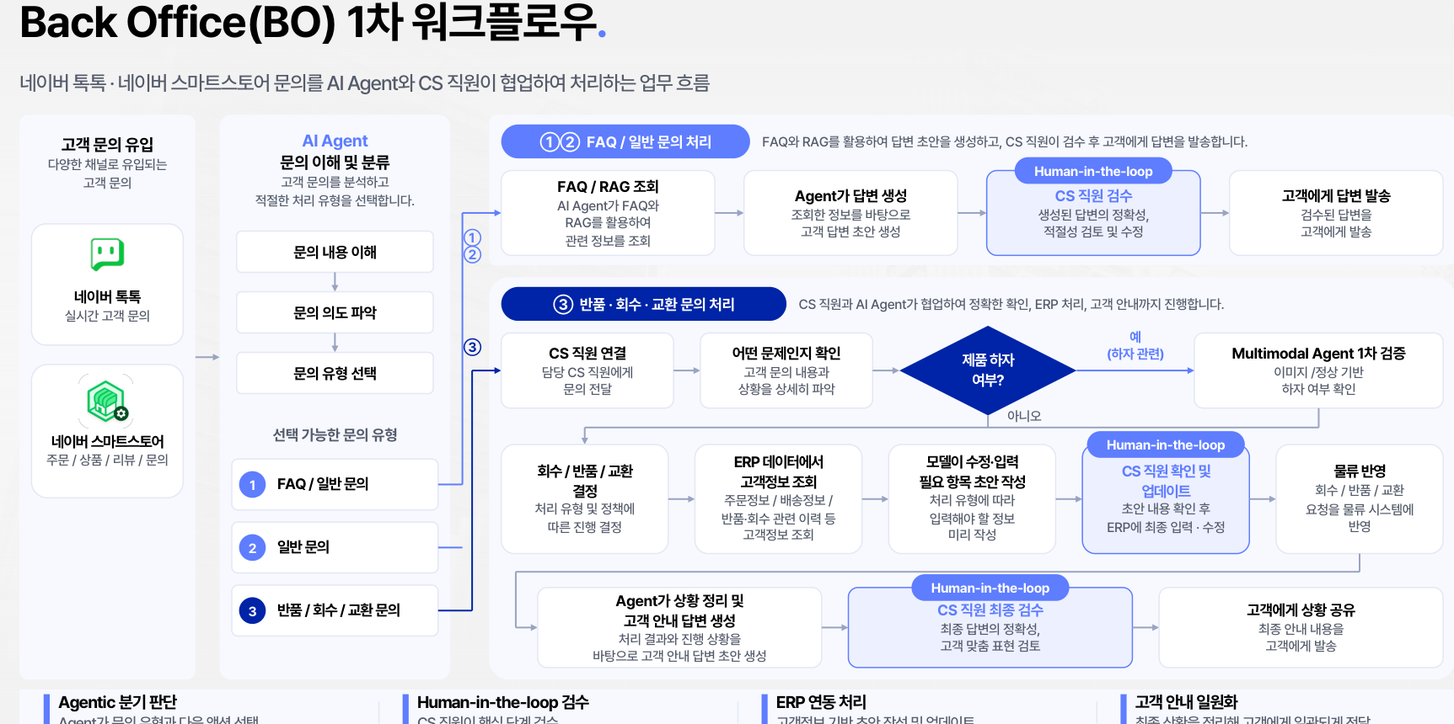
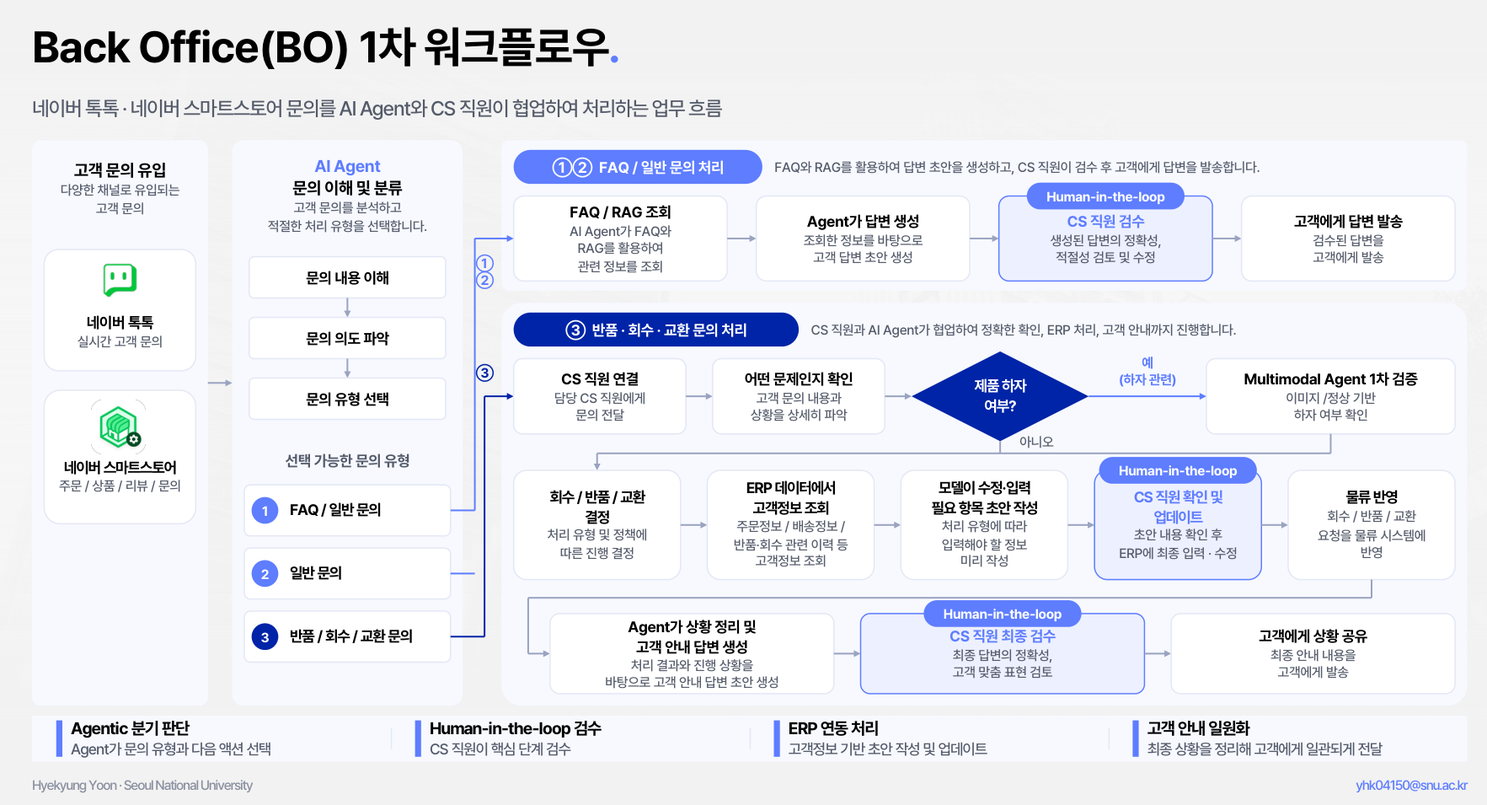
Add files via upload

diff --git a/index.html b/index.html
@@ -1,6 +1,11 @@
 <!DOCTYPE html>
 
-<html lang="en"><head><meta charset="utf-8"/><meta content="width=device-width, initial-scale=1" name="viewport"/><meta content="Hyekyung Yoon — AI research and engineering portfolio" name="description"/><title>Portfolio | Hyekyung Yoon</title><link href="style.css" rel="stylesheet"/></head><body><header><nav><a class="brand" href="index.html">HY / Research &amp; Engineering</a><div><a href="index.html#projects">Projects</a><a href="index.html#publications">Publications</a><a href="index.html#about">About</a><a href="mailto:yhk04150@snu.ac.kr">Contact</a></div></nav></header><main class=""><section class="hero"><div><span class="eyebrow">AI researcher &amp; engineer</span><h1>Hyekyung Yoon</h1><p class="lead">Bridging AI research and real-world applications.</p><p>Ph.D. student in Artificial Intelligence at Seoul National University. I develop practical AI systems for semiconductor equipment, multimodal learning and human-in-the-loop Agentic AI.</p><div class="links"><a class="button primary" href="#projects">Explore my work</a><a class="button" href="https://github.com/yhk04150">GitHub ↗</a><a class="button" href="https://orcid.org/0009-0000-1410-786X">ORCID ↗</a></div></div><aside class="hero-panel"><img alt="Hyekyung Yoon" class="profile-photo" height="900" src="assets/profile.jpg" width="700"/><span class="eyebrow">Research focus</span><h2>From domain challenges to measurable impact.</h2><p>Semiconductor metrology<br/>Industrial anomaly detection<br/>Multimodal RAG &amp; AI safety<br/>Human-centered AI systems</p></aside></section><div class="metrics"><div class="metric"><strong>0.99</strong><small>SEM metrology R²</small></div><div class="metric"><strong>0.9493</strong><small>Wafer fault detection F1</small></div><div class="metric"><strong>13% → 72%</strong><small>AI response adoption</small></div><div class="metric"><strong>9</strong><small>Research papers, including accepted work</small></div></div><section class="section" id="projects"><span class="eyebrow">Selected industry projects</span><h2>Research in practice</h2><div class="filters"><button aria-pressed="true" data-filter="All" type="button">All</button><button aria-pressed="false" data-filter="Computer Vision" type="button">Computer Vision</button><button aria-pressed="false" data-filter="Generative AI" type="button">Generative AI</button><button aria-pressed="false" data-filter="Industrial AI" type="button">Industrial AI</button><button aria-pressed="false" data-filter="Agentic AI" type="button">Agentic AI</button></div><div class="cards"><article class="card" data-category="Computer Vision"><span class="eyebrow">SK hynix / Computer Vision</span><h3>Metrology-Preserving SEM Image Restoration</h3><img alt="Metrology-Preserving SEM Image Restoration architecture" class="project-preview" decoding="async" loading="lazy" src="assets/projects/sem-restoration-architecture.png"/><p>Low-frame SEM images need restoration without compromising the fine structures used for metrology.</p><div class="result">R² = 0.99</div><small>0.007 s/image</small><a href="projects/sem-restoration.html">Explore project →</a></article><article class="card" data-category="Computer Vision"><span class="eyebrow">SK hynix / Computer Vision</span><h3>Few-Shot SEM Domain Adaptation</h3><img alt="Few-Shot SEM Domain Adaptation architecture" class="project-preview" decoding="async" loading="lazy" src="assets/projects/sem-adaptation-architecture.png"/><p>New SEM image distributions require adaptation with limited paired target-domain data.</p><div class="result">5 target images</div><small>R² = 0.88</small><a href="projects/sem-adaptation.html">Explore project →</a></article><article class="card" data-category="Generative AI"><span class="eyebrow">SK hynix / Generative AI</span><h3>Virtual Multi-Voltage SEM Imaging</h3><img alt="Virtual Multi-Voltage SEM Imaging architecture" class="project-preview" decoding="async" loading="lazy" src="assets/projects/sem-voltage-architecture.png"/><p>Selecting voltage conditions for CD measurement can require additional SEM image acquisition.</p><div class="result">Conditional diffusion</div><small>End-to-end PoC</small><a href="projects/sem-voltage.html">Explore project →</a></article><article class="card" data-category="Industrial AI"><span class="eyebrow">SEMICS / KIAT / Industrial AI</span><h3>SwinProbeFormer</h3><img alt="SwinProbeFormer architecture" class="project-preview" decoding="async" loading="lazy" src="assets/publications/swinprobeformer.png"/><p>Overgain faults in wafer probing are associated with probing failures. Long sensor sequences require an effective anomaly detection method.</p><div class="result">F1 = 0.9493</div><small>34.8% improvement</small><a href="projects/swinprobeformer.html">Explore project →</a></article><article class="card" data-category="Industrial AI"><span class="eyebrow">SEMICS / KIAT / Industrial AI</span><h3>M-WAD</h3><img alt="M-WAD architecture" class="project-preview" decoding="async" loading="lazy" src="assets/publications/m-wad.png"/><p>Undergain faults reduce test throughput and motivate multimodal fault detection.</p><div class="result">7 probing recipes</div><small>~44% F1 improvement</small><a href="projects/m-wad.html">Explore project →</a></article><article class="card" data-category="Agentic AI"><span class="eyebrow">KELIVI / Agentic AI</span><h3>Human-in-the-Loop Customer Service AI</h3><img alt="KELIVI back-office workflow for AI-assisted customer service" class="project-preview" loading="lazy" src="assets/kelivi/kelivi-workflow.png"/><p>Customer inquiries require efficient responses while preserving human judgment for returns, exchanges and after-sales service.</p><div class="result">13% → 72%</div><small>15 → 2–3 min</small><a href="projects/agentic-ai.html">Explore project →</a></article></div></section><section class="section" id="publications"><span class="eyebrow">Academic research</span><h2>Publications</h2><p class="publication-intro">Research papers with representative figures and links to the original publications.</p><article class="pub pub-with-figure"><figure class="pub-figure"><a aria-label="Open SPOT representative image" href="assets/publications/spot.png" rel="noopener" target="_blank"><img alt="SPOT representative research image" decoding="async" loading="lazy" src="assets/publications/spot.png"/></a></figure><div class="pub-content"><span class="muted">WSDM 2027 · Accepted</span><strong>SPOT</strong>Explicit Candidate Selection with Image Verification for Training-Free Text-to-Image Safety<small class="figure-source">Target-constrained prompt selection with image verification.</small></div></article><article class="pub pub-with-figure"><figure class="pub-figure"><a aria-label="Open NoDE representative image" href="assets/publications/node.png" rel="noopener" target="_blank"><img alt="NoDE representative research image" decoding="async" loading="lazy" src="assets/publications/node.png"/></a></figure><div class="pub-content"><span class="muted">DMKD 2026</span><strong>NoDE</strong>Noise-Decorrelation Embedding for Robust Long-Term Multivariate Time Series Forecasting <a href="https://link.springer.com/article/10.1007/s10618-026-01281-0">Paper ↗</a><small class="figure-source">Noise-decorrelation embedding overview.</small></div></article><article class="pub pub-with-figure"><figure class="pub-figure"><a aria-label="Open PARES representative image" href="assets/publications/pares.png" rel="noopener" target="_blank"><img alt="PARES representative research image" decoding="async" loading="lazy" src="assets/publications/pares.png"/></a></figure><div class="pub-content"><span class="muted">IEEE Access 2026</span><strong>PARES</strong>Page Answerability, Reranking, and Evidence-Supervised Selection for Multi-Page Multimodal Document Question Answering <a href="https://ieeexplore.ieee.org/document/11703558">Paper ↗</a><small class="figure-source">Page answerability, reranking and evidence-supervised selection architecture.</small></div></article><article class="pub pub-with-figure"><figure class="pub-figure"><a aria-label="Open M-WAD representative image" href="assets/publications/m-wad.png" rel="noopener" target="_blank"><img alt="M-WAD representative research image" decoding="async" loading="lazy" src="assets/publications/m-wad.png"/></a></figure><div class="pub-content"><span class="muted">IEEE Access 2026</span><strong>M-WAD</strong>Self-Supervised Multimodal Anomaly Detection for Wafer Probing <a href="https://ieeexplore.ieee.org/document/11370876/">Paper ↗</a><small class="figure-source">Multimodal fusion of time series, residual images and anomaly-specific text prompts.</small></div></article><article class="pub pub-with-figure"><figure class="pub-figure"><a aria-label="Open SwinProbeFormer representative image" href="assets/publications/swinprobeformer.png" rel="noopener" target="_blank"><img alt="SwinProbeFormer representative research image" decoding="async" loading="lazy" src="assets/publications/swinprobeformer.png"/></a></figure><div class="pub-content"><span class="muted">IEEE Access 2025</span><strong>SwinProbeFormer</strong>Enhancing Wafer Probing with SwinProbeFormer: Self-Supervised Anomaly Detection via Window-Based Swin Transformer <a href="https://ieeexplore.ieee.org/document/11173610">Paper ↗</a><small class="figure-source">Window-based attention and cyclic shift compared with vanilla self-attention.</small></div></article><article class="pub pub-with-figure"><figure class="pub-figure"><a aria-label="Open CASA representative image" href="assets/publications/casa.png" rel="noopener" target="_blank"><img alt="CASA representative research image" decoding="async" loading="lazy" src="assets/publications/casa.png"/></a></figure><div class="pub-content"><span class="muted">IJCAI 2025</span><strong>CASA</strong>CNN Autoencoder-Based Score Attention for Efficient Multivariate Long-Term Time-Series Forecasting <a href="https://doi.org/10.24963/ijcai.2025/619">Paper ↗</a><small class="figure-source">CNN autoencoder-based score attention and CASA architecture.</small></div></article><article class="pub pub-with-figure"><figure class="pub-figure"><a aria-label="Open ML-GCN representative image" href="assets/publications/ml-gcn.png" rel="noopener" target="_blank"><img alt="ML-GCN representative research image" decoding="async" loading="lazy" src="assets/publications/ml-gcn.png"/></a></figure><div class="pub-content"><span class="muted">ICCV Workshops 2023</span><strong>ML-GCN</strong>Enhancing Multi-Label Long-Tailed Classification on Chest X-Rays through ML-GCN Augmentation <a href="https://ieeexplore.ieee.org/document/10350833">Paper ↗</a><small class="figure-source">Representative figure not available.</small></div></article><article class="pub pub-with-figure"><figure class="pub-figure"><a aria-label="Open SLU representative image" href="assets/publications/slu.png" rel="noopener" target="_blank"><img alt="SLU representative research image" decoding="async" loading="lazy" src="assets/publications/slu.png"/></a></figure><div class="pub-content"><span class="muted">Sensors 2022</span><strong>SLU</strong>Improved Spoken Language Representation for Intent Understanding in a Task-Oriented Dialogue System <a href="https://www.mdpi.com/1424-8220/22/4/1509">Paper ↗</a><small class="figure-source">Representative figure not available.</small></div></article><article class="pub pub-with-figure"><figure class="pub-figure"><a aria-label="Open Voice Translation representative image" href="assets/publications/voice-translation.png" rel="noopener" target="_blank"><img alt="Voice Translation representative research image" decoding="async" loading="lazy" src="assets/publications/voice-translation.png"/></a></figure><div class="pub-content"><span class="muted">IEEE Access 2021</span><strong>Voice Translation</strong>Linguistic-Coupled Age-to-Age Voice Translation to Improve Speech Recognition Performance in Real Environments <a href="https://ieeexplore.ieee.org/document/9548063">Paper ↗</a><small class="figure-source">Representative figure not available.</small></div></article></section><section class="section credentials" id="about">
+<html lang="en"><head><meta charset="utf-8"/><meta content="width=device-width, initial-scale=1" name="viewport"/><meta content="Hyekyung Yoon — AI research and engineering portfolio" name="description"/><title>Portfolio | Hyekyung Yoon</title><link href="style.css" rel="stylesheet"/></head><body><header><nav><a class="brand" href="index.html">HY / Research &amp; Engineering</a><div><a href="index.html#projects">Projects</a><a href="index.html#publications">Publications</a><a href="index.html#about">About</a><a href="mailto:yhk04150@snu.ac.kr">Contact</a></div></nav></header><main class=""><section class="hero"><div><span class="eyebrow">AI researcher &amp; engineer</span><h1>Hyekyung Yoon</h1><p class="lead">Bridging AI research and real-world applications.</p><p>Ph.D. student in Artificial Intelligence at Seoul National University. I develop practical AI systems for semiconductor equipment, multimodal learning and human-in-the-loop Agentic AI.</p><div class="links"><a class="button primary" href="#projects">Explore my work</a><a class="button" href="https://github.com/yhk04150">GitHub ↗</a><a class="button" href="https://orcid.org/0009-0000-1410-786X">ORCID ↗</a></div></div><aside class="hero-panel"><img alt="Hyekyung Yoon" class="profile-photo" height="900" src="assets/profile.jpg" width="700"/><span class="eyebrow">Research focus</span><h2>From domain challenges to measurable impact.</h2><p>Semiconductor metrology<br/>Industrial anomaly detection<br/>Multimodal RAG &amp; AI safety<br/>Human-centered AI systems</p></aside></section><section aria-labelledby="research-focus-title" class="research-focus"><h2 id="research-focus-title">Research Areas &amp; Publications</h2><div class="research-grid">
+<a class="research-card" href="projects/agentic-ai.html"><h3>Agentic AI System</h3><p>RAG · Human-in-the-loop · Production AI</p><span class="research-link">Explore project →</span></a>
+<a class="research-card" href="#spot"><h3>Safety Alignment for Generative AI</h3><p>Text-to-image safety · Image verification</p><span class="research-link">Explore research →</span></a>
+<a class="research-card" href="#projects" id="semiconductor-link"><h3>Industrial AI – Semiconductor</h3><p>SEM metrology · Wafer fault detection</p><span class="research-link">Explore projects →</span></a>
+<a class="research-card" href="#publications"><h3>Publications</h3><p>9 research papers, including accepted work</p><span class="research-link">View publications →</span></a>
+</div></section><section class="section" id="projects"><span class="eyebrow">Selected industry projects</span><h2>Research in practice</h2><div class="filters"><button aria-pressed="true" data-filter="All" type="button">All</button><button aria-pressed="false" data-filter="Computer Vision" type="button">Computer Vision</button><button aria-pressed="false" data-filter="Generative AI" type="button">Generative AI</button><button aria-pressed="false" data-filter="Industrial AI" type="button">Industrial AI</button><button aria-pressed="false" data-filter="Agentic AI" type="button">Agentic AI</button></div><div class="cards"><article class="card" data-category="Computer Vision"><span class="eyebrow">SK hynix / Computer Vision</span><h3>Metrology-Preserving SEM Image Restoration</h3><img alt="Metrology-Preserving SEM Image Restoration architecture" class="project-preview" decoding="async" loading="lazy" src="assets/projects/sem-restoration-architecture.png"/><p>Low-frame SEM images need restoration without compromising the fine structures used for metrology.</p><div class="result">R² = 0.99</div><small>0.007 s/image</small><a href="projects/sem-restoration.html">Explore project →</a></article><article class="card" data-category="Computer Vision"><span class="eyebrow">SK hynix / Computer Vision</span><h3>Few-Shot SEM Domain Adaptation</h3><img alt="Few-Shot SEM Domain Adaptation architecture" class="project-preview" decoding="async" loading="lazy" src="assets/projects/sem-adaptation-architecture.png"/><p>New SEM image distributions require adaptation with limited paired target-domain data.</p><div class="result">5 target images</div><small>R² = 0.88</small><a href="projects/sem-adaptation.html">Explore project →</a></article><article class="card" data-category="Generative AI"><span class="eyebrow">SK hynix / Generative AI</span><h3>Virtual Multi-Voltage SEM Imaging</h3><img alt="Virtual Multi-Voltage SEM Imaging architecture" class="project-preview" decoding="async" loading="lazy" src="assets/projects/sem-voltage-architecture.png"/><p>Selecting voltage conditions for CD measurement can require additional SEM image acquisition.</p><div class="result">Conditional diffusion</div><small>End-to-end PoC</small><a href="projects/sem-voltage.html">Explore project →</a></article><article class="card" data-category="Industrial AI"><span class="eyebrow">SEMICS / KIAT / Industrial AI</span><h3>SwinProbeFormer</h3><img alt="SwinProbeFormer architecture" class="project-preview" decoding="async" loading="lazy" src="assets/publications/swinprobeformer.png"/><p>Overgain faults in wafer probing are associated with probing failures. Long sensor sequences require an effective anomaly detection method.</p><div class="result">F1 = 0.9493</div><small>34.8% improvement</small><a href="projects/swinprobeformer.html">Explore project →</a></article><article class="card" data-category="Industrial AI"><span class="eyebrow">SEMICS / KIAT / Industrial AI</span><h3>M-WAD</h3><img alt="M-WAD architecture" class="project-preview" decoding="async" loading="lazy" src="assets/publications/m-wad.png"/><p>Undergain faults reduce test throughput and motivate multimodal fault detection.</p><div class="result">7 probing recipes</div><small>~44% F1 improvement</small><a href="projects/m-wad.html">Explore project →</a></article><article class="card" data-category="Agentic AI"><span class="eyebrow">KELIVI / Agentic AI</span><h3>Human-in-the-Loop Customer Service AI</h3><img alt="KELIVI back-office workflow for AI-assisted customer service" class="project-preview" loading="lazy" src="assets/kelivi/kelivi-workflow.png"/><p>Customer inquiries require efficient responses while preserving human judgment for returns, exchanges and after-sales service.</p><div class="result">13% → 72%</div><small>15 → 2–3 min</small><a href="projects/agentic-ai.html">Explore project →</a></article></div></section><section class="section" id="publications"><span class="eyebrow">Academic research</span><h2>Publications</h2><p class="publication-intro">Research papers with representative figures and links to the original publications.</p><article class="pub pub-with-figure" id="spot"><figure class="pub-figure"><a aria-label="Open SPOT representative image" href="assets/publications/spot.png" rel="noopener" target="_blank"><img alt="SPOT representative research image" decoding="async" loading="lazy" src="assets/publications/spot.png"/></a></figure><div class="pub-content"><span class="muted">WSDM 2027 · Accepted</span><strong>SPOT</strong>Explicit Candidate Selection with Image Verification for Training-Free Text-to-Image Safety<small class="figure-source">Target-constrained prompt selection with image verification.</small></div></article><article class="pub pub-with-figure"><figure class="pub-figure"><a aria-label="Open NoDE representative image" href="assets/publications/node.png" rel="noopener" target="_blank"><img alt="NoDE representative research image" decoding="async" loading="lazy" src="assets/publications/node.png"/></a></figure><div class="pub-content"><span class="muted">DMKD 2026</span><strong>NoDE</strong>Noise-Decorrelation Embedding for Robust Long-Term Multivariate Time Series Forecasting <a href="https://link.springer.com/article/10.1007/s10618-026-01281-0">Paper ↗</a><small class="figure-source">Noise-decorrelation embedding overview.</small></div></article><article class="pub pub-with-figure"><figure class="pub-figure"><a aria-label="Open PARES representative image" href="assets/publications/pares.png" rel="noopener" target="_blank"><img alt="PARES representative research image" decoding="async" loading="lazy" src="assets/publications/pares.png"/></a></figure><div class="pub-content"><span class="muted">IEEE Access 2026</span><strong>PARES</strong>Page Answerability, Reranking, and Evidence-Supervised Selection for Multi-Page Multimodal Document Question Answering <a href="https://ieeexplore.ieee.org/document/11703558">Paper ↗</a><small class="figure-source">Page answerability, reranking and evidence-supervised selection architecture.</small></div></article><article class="pub pub-with-figure"><figure class="pub-figure"><a aria-label="Open M-WAD representative image" href="assets/publications/m-wad.png" rel="noopener" target="_blank"><img alt="M-WAD representative research image" decoding="async" loading="lazy" src="assets/publications/m-wad.png"/></a></figure><div class="pub-content"><span class="muted">IEEE Access 2026</span><strong>M-WAD</strong>Self-Supervised Multimodal Anomaly Detection for Wafer Probing <a href="https://ieeexplore.ieee.org/document/11370876/">Paper ↗</a><small class="figure-source">Multimodal fusion of time series, residual images and anomaly-specific text prompts.</small></div></article><article class="pub pub-with-figure"><figure class="pub-figure"><a aria-label="Open SwinProbeFormer representative image" href="assets/publications/swinprobeformer.png" rel="noopener" target="_blank"><img alt="SwinProbeFormer representative research image" decoding="async" loading="lazy" src="assets/publications/swinprobeformer.png"/></a></figure><div class="pub-content"><span class="muted">IEEE Access 2025</span><strong>SwinProbeFormer</strong>Enhancing Wafer Probing with SwinProbeFormer: Self-Supervised Anomaly Detection via Window-Based Swin Transformer <a href="https://ieeexplore.ieee.org/document/11173610">Paper ↗</a><small class="figure-source">Window-based attention and cyclic shift compared with vanilla self-attention.</small></div></article><article class="pub pub-with-figure"><figure class="pub-figure"><a aria-label="Open CASA representative image" href="assets/publications/casa.png" rel="noopener" target="_blank"><img alt="CASA representative research image" decoding="async" loading="lazy" src="assets/publications/casa.png"/></a></figure><div class="pub-content"><span class="muted">IJCAI 2025</span><strong>CASA</strong>CNN Autoencoder-Based Score Attention for Efficient Multivariate Long-Term Time-Series Forecasting <a href="https://doi.org/10.24963/ijcai.2025/619">Paper ↗</a><small class="figure-source">CNN autoencoder-based score attention and CASA architecture.</small></div></article><article class="pub pub-with-figure"><figure class="pub-figure"><a aria-label="Open ML-GCN representative image" href="assets/publications/ml-gcn.png" rel="noopener" target="_blank"><img alt="ML-GCN representative research image" decoding="async" loading="lazy" src="assets/publications/ml-gcn.png"/></a></figure><div class="pub-content"><span class="muted">ICCV Workshops 2023</span><strong>ML-GCN</strong>Enhancing Multi-Label Long-Tailed Classification on Chest X-Rays through ML-GCN Augmentation <a href="https://ieeexplore.ieee.org/document/10350833">Paper ↗</a><small class="figure-source">Representative figure not available.</small></div></article><article class="pub pub-with-figure"><figure class="pub-figure"><a aria-label="Open SLU representative image" href="assets/publications/slu.png" rel="noopener" target="_blank"><img alt="SLU representative research image" decoding="async" loading="lazy" src="assets/publications/slu.png"/></a></figure><div class="pub-content"><span class="muted">Sensors 2022</span><strong>SLU</strong>Improved Spoken Language Representation for Intent Understanding in a Task-Oriented Dialogue System <a href="https://www.mdpi.com/1424-8220/22/4/1509">Paper ↗</a><small class="figure-source">Representative figure not available.</small></div></article><article class="pub pub-with-figure"><figure class="pub-figure"><a aria-label="Open Voice Translation representative image" href="assets/publications/voice-translation.png" rel="noopener" target="_blank"><img alt="Voice Translation representative research image" decoding="async" loading="lazy" src="assets/publications/voice-translation.png"/></a></figure><div class="pub-content"><span class="muted">IEEE Access 2021</span><strong>Voice Translation</strong>Linguistic-Coupled Age-to-Age Voice Translation to Improve Speech Recognition Performance in Real Environments <a href="https://ieeexplore.ieee.org/document/9548063">Paper ↗</a><small class="figure-source">Representative figure not available.</small></div></article></section><section class="section credentials" id="about">
 <span class="eyebrow">Academic &amp; research background</span><h2>Education &amp; Research Experience</h2>
 <div class="credentials-grid">
 <div class="panel credentials-panel"><h3>Education</h3><p class="panel-subtitle">Academic background</p>

diff --git a/style.css b/style.css
@@ -18,3 +18,6 @@
 .credential-links{display:flex;gap:6px 15px;flex-wrap:wrap;margin-top:8px}.credential-links a{font-size:13px;font-weight:650}.skills-panel{margin-bottom:18px}.skill-grid{display:grid;grid-template-columns:repeat(2,minmax(0,1fr));gap:20px 26px;margin-top:16px}.skill-group h4{margin:0 0 8px}.skill-tags{display:flex;gap:6px;flex-wrap:wrap}.skill-tags span{font-size:12px;line-height:1.4;padding:5px 9px;border:1px solid #dbe3eb;border-radius:5px;background:#f8fafc;color:#28445b}
 .count{font-size:13px;font-weight:650;color:#586c7f;letter-spacing:.08em}.patent-state{font-size:12px;color:#205571;font-weight:750}.patent-state.pending{color:#586c7f}.language-block{border-top:1px solid #e0e7ed;margin-top:24px;padding-top:20px}.language-block p{font-size:14px;margin:6px 0}.award-list h4{margin-top:4px}
 @media(max-width:800px){.credentials-grid{grid-template-columns:1fr}.credentials-panel{padding:20px}}@media(max-width:480px){.skill-grid{grid-template-columns:1fr}.credentials-panel{padding:18px}}
+
+/* Research areas */
+.research-focus{margin:0 0 54px}.research-focus h2{font-size:23px;letter-spacing:-.025em;margin:0 0 14px}.research-grid{display:grid;grid-template-columns:repeat(4,minmax(0,1fr));gap:16px}.research-card{display:flex;flex-direction:column;min-height:170px;padding:20px;background:#fff;border:1px solid #dbe3eb;border-top:3px solid #36728b;border-radius:13px;color:#172a40;transition:border-color .15s,background .15s}.research-card h3{font-size:19px;line-height:1.3;letter-spacing:-.02em;margin:0 0 10px;overflow-wrap:anywhere}.research-card p{font-size:13px;color:#586c7f;line-height:1.6;margin:0 0 16px;flex:1}.research-link{font-size:12px;font-weight:650;color:#175b82}.research-card:hover{background:#f1f7fa;border-color:#36728b;text-decoration:none}.research-card:hover .research-link{text-decoration:underline}#spot{scroll-margin-top:20px}@media(max-width:800px){.research-grid{grid-template-columns:repeat(2,minmax(0,1fr))}}@media(max-width:480px){.research-grid{grid-template-columns:1fr}.research-card{min-height:0}}

diff --git a/script.js b/script.js
@@ -1,1 +1,3 @@
 document.querySelectorAll("[data-filter]").forEach(b=>b.addEventListener("click",()=>{document.querySelectorAll("[data-filter]").forEach(x=>x.setAttribute("aria-pressed",String(x===b)));document.querySelectorAll("[data-category]").forEach(c=>c.hidden=b.dataset.filter!=="All"&&c.dataset.category!==b.dataset.filter)}));
+// Show the full project set when navigating from the semiconductor research card.
+document.getElementById('semiconductor-link')?.addEventListener('click',()=>document.querySelector('[data-filter="All"]')?.click());
